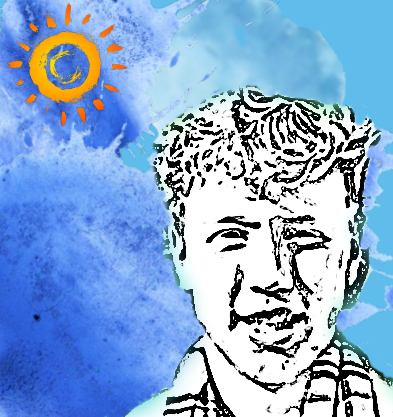
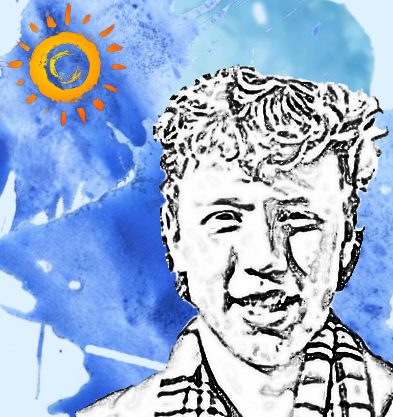
WIP: new profile pic, and rm the fade from conatrc form index

diff --git a/pages/index.tsx b/pages/index.tsx
@@ -217,7 +217,7 @@ export default function Home({ posts, projects }: Props) {
 
         <section className="">
           <h3 className="text-center mt-20 font-extrabold text-4xl md:text-5xl">Contact Me!</h3>
-          <Fade duration={1700} triggerOnce>
+          {/* <Fade duration={1700} triggerOnce> */}
             <form className="flex flex-col p-5 max-w-2xl mx-auto gap-5" name="contact" method="POST" data-netlify="true" netlify-honeypot="bot-field">
               <input type="hidden" name="form-name" value="contact" />
               <p className="hidden">
@@ -238,12 +238,6 @@ export default function Home({ posts, projects }: Props) {
                 <input className="shadow border rounded py-2 px-3 form-input mt-1 block w-full ring-sky-200 outline-none focus:ring" name="email" required={true} type="email" id="youremail" placeholder="scottklein@email.com" />
               </p>
               <p>
-                <label className="block" htmlFor="currentwebsite">
-                  Your Website Url:
-                </label>
-                <input className="shadow border rounded py-2 px-3 form-input mt-1 block w-full ring-sky-200 outline-none focus:ring" name="currentwebsite" type="url" id="yourwebsite" placeholder="https://www.scottklein.dev" />
-              </p>
-              <p>
                 <label className="block" htmlFor="yourmessage">
                   What you need help with:
                 </label>
@@ -256,7 +250,7 @@ export default function Home({ posts, projects }: Props) {
                 font-bold py-2 px-4 rounded cursor-pointer" type="submit">Send</button>
               </p>
             </form>
-          </Fade>
+          {/* </Fade> */}
         </section>
       </main>
     </>

diff --git a/pages/hire-the-best-freelance-dev-around.tsx b/pages/hire-the-best-freelance-dev-around.tsx
@@ -4,7 +4,7 @@ import Nav from '../components/Nav'
 
 function hireTheBestFreelanceDevAround() {
     return (
-        <main className="bg-sky-100 h-screen">
+        <main className="bg-sky-100 h-full md:h-screen">
             <Head>
                 <title>Hire Me - Scott Klein - a Freelance Web Developer, Designer </title>
                 <meta name="description" content="Hire me, a freelance Web Developer, Designer, SEO startegiest, and more... Servicing the Shenandoah Valley and Northern Virginia" />
@@ -13,7 +13,7 @@ function hireTheBestFreelanceDevAround() {
 
             <Nav />
             <div>
-                <div className="flex flex-col p-10 gap-5">
+                <div className="flex flex-col p-10 gap-5 md:text-center">
                     <h1 className="font-extrabold text-4xl text-center">Proposal Request</h1>
                     <p className="text-2xl font-thin">Do you need awesome web services such as web development, design , SEO, digital ads, or more? Let me know below</p>
                     <p className="text-2xl font-thin">Don't hesitate to reach out, even if your just saying hello! I'd love to help in any way possible</p>

diff --git a/pages/story.tsx b/pages/story.tsx
@@ -24,7 +24,6 @@ function story() {
                         className="mt-5"
                         priority
                         objectFit="cover"
-
                     />
                     <h1 className="font-extrabold text-2xl">Intrested in my story, well take a look below!</h1>
                     <div className="flex flex-col gap-5 mb-5">
